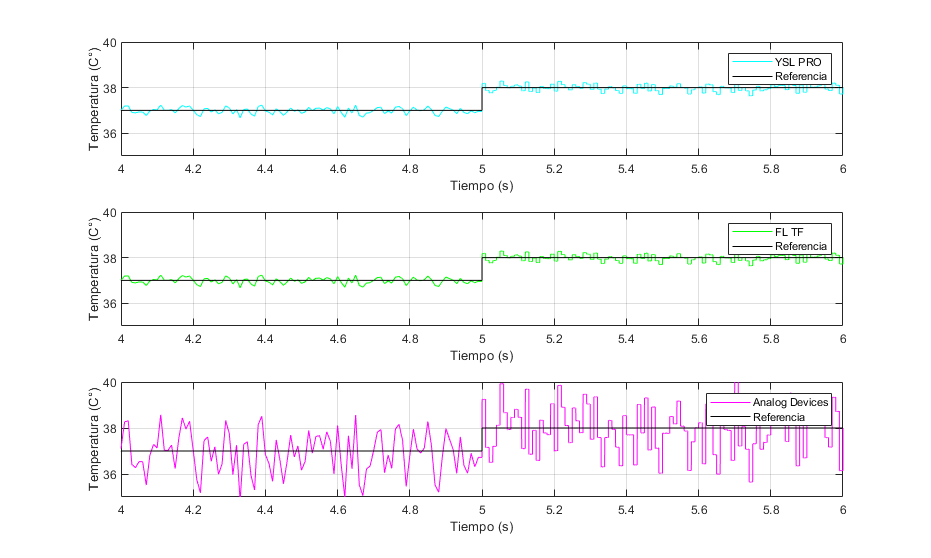
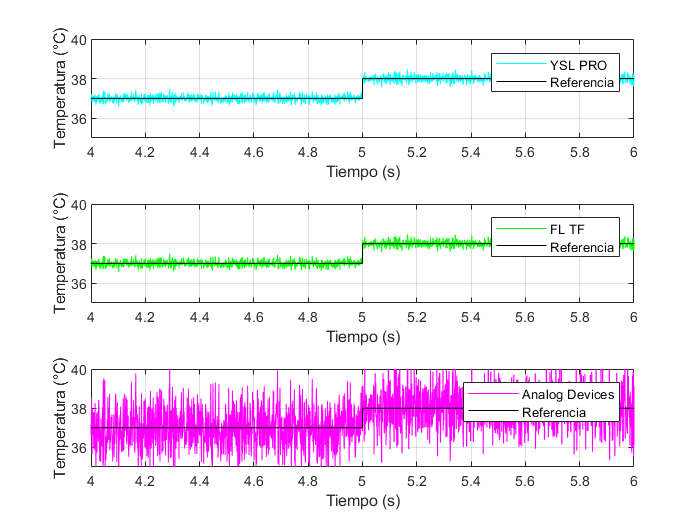
Gráficos arreglados sg el comentario del profe

Changed region(s): [[0.06, 0.061, 0.93, 0.9752], [0.9, 0.9143, 0.93, 0.9448]]

diff --git a/E1/s_temperatura.m b/E1/s_temperatura.m
@@ -8,7 +8,7 @@ grafico1 = tiledlayout(3,1);
 nexttile
 plot(tiempo,YSL_PRO,'c')
 xlabel('Tiempo (s)')
-ylabel('Temperatura (C°)')
+ylabel('Temperatura (°C)')
 ylim([35,40])
 xlim([4,6])
 hold on
@@ -20,7 +20,7 @@ hold off
 nexttile
 plot(tiempo,FL_TF,'g')
 xlabel('Tiempo (s)')
-ylabel('Temperatura (C°)')
+ylabel('Temperatura (°C)')
 hold on
 ylim([35,40])
 xlim([4,6])
@@ -32,7 +32,7 @@ hold off
 nexttile
 plot(tiempo,analog,'m')
 xlabel('Tiempo (s)')
-ylabel('Temperatura (C°)')
+ylabel('Temperatura (°C)')
 hold on
 ylim([35,40])
 xlim([4,6])
